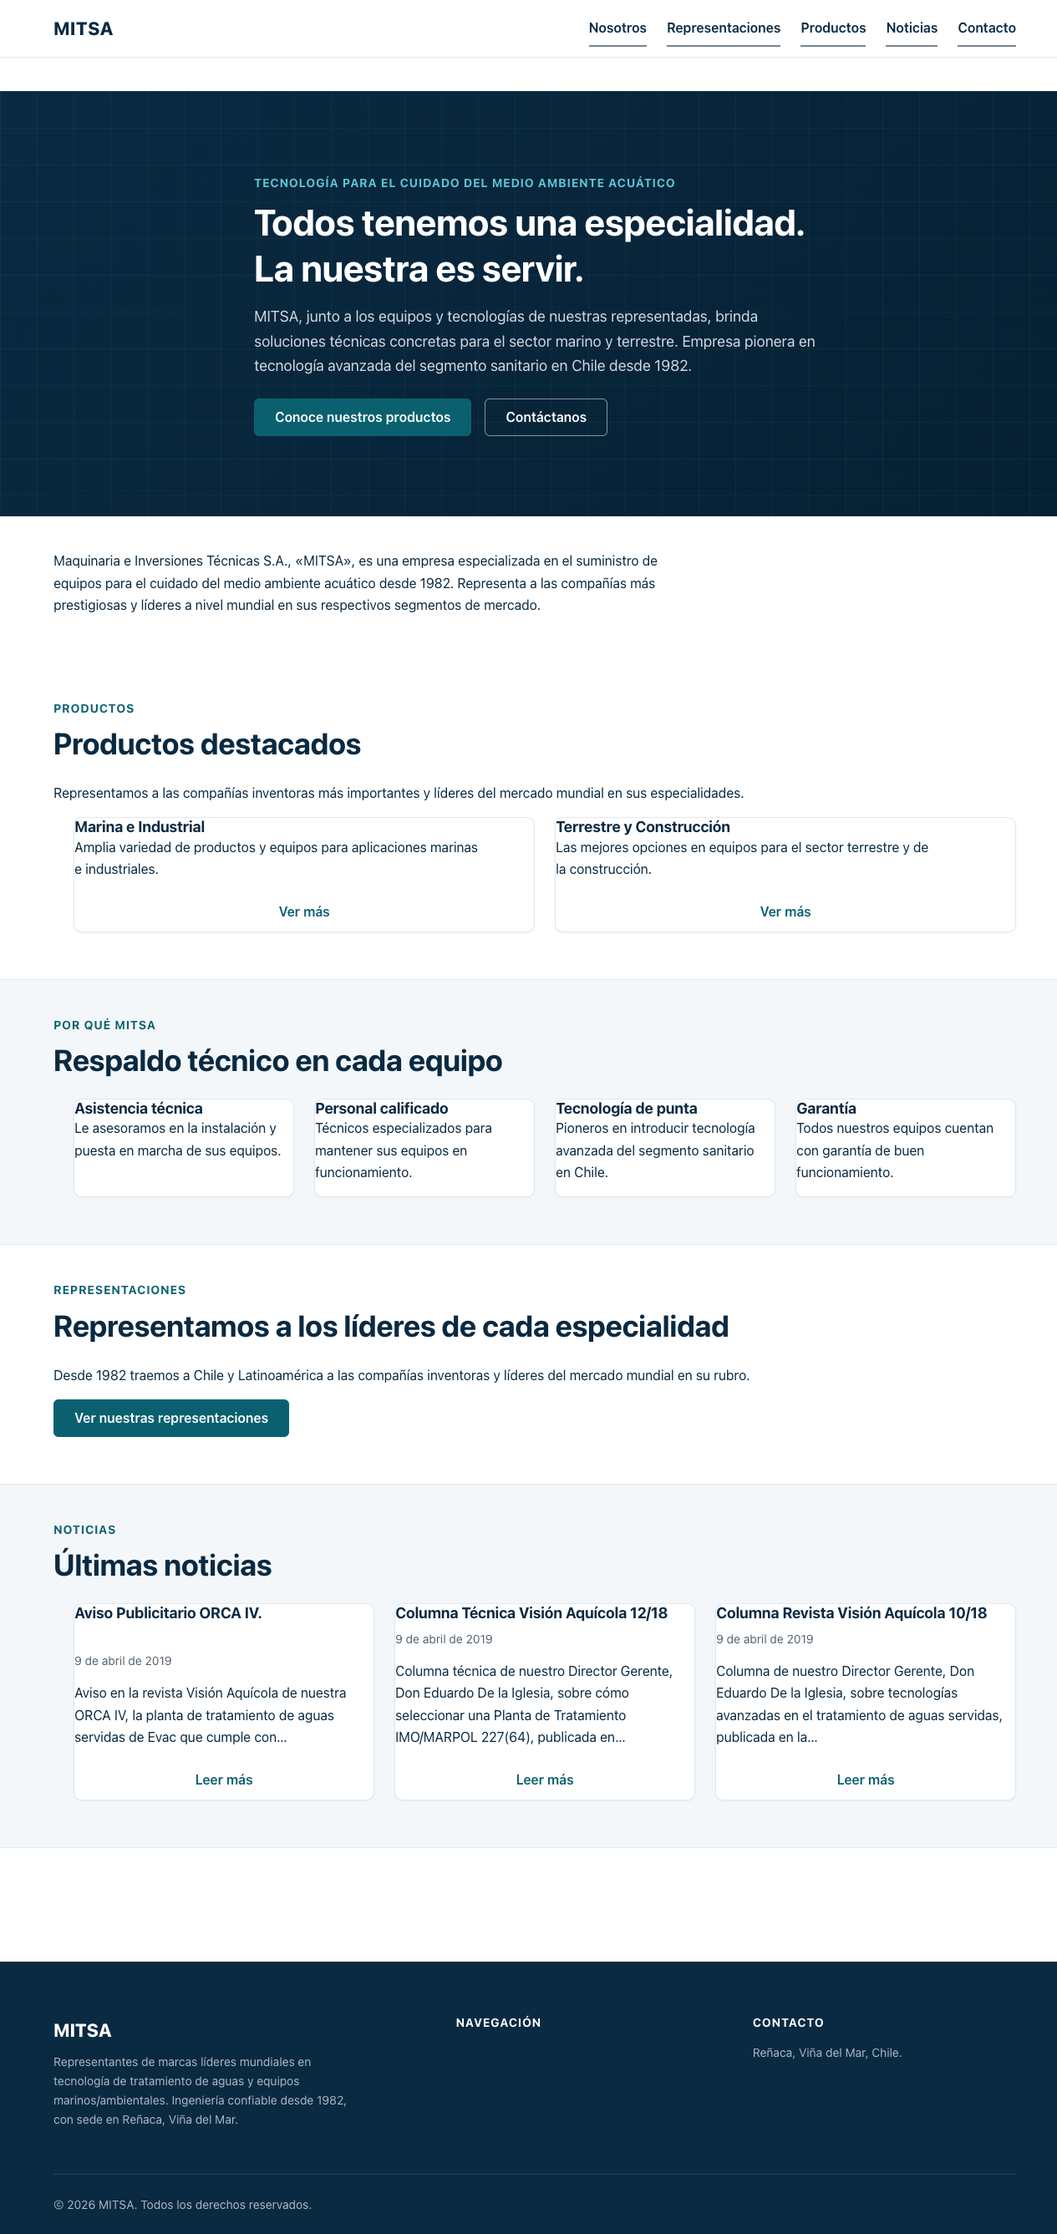
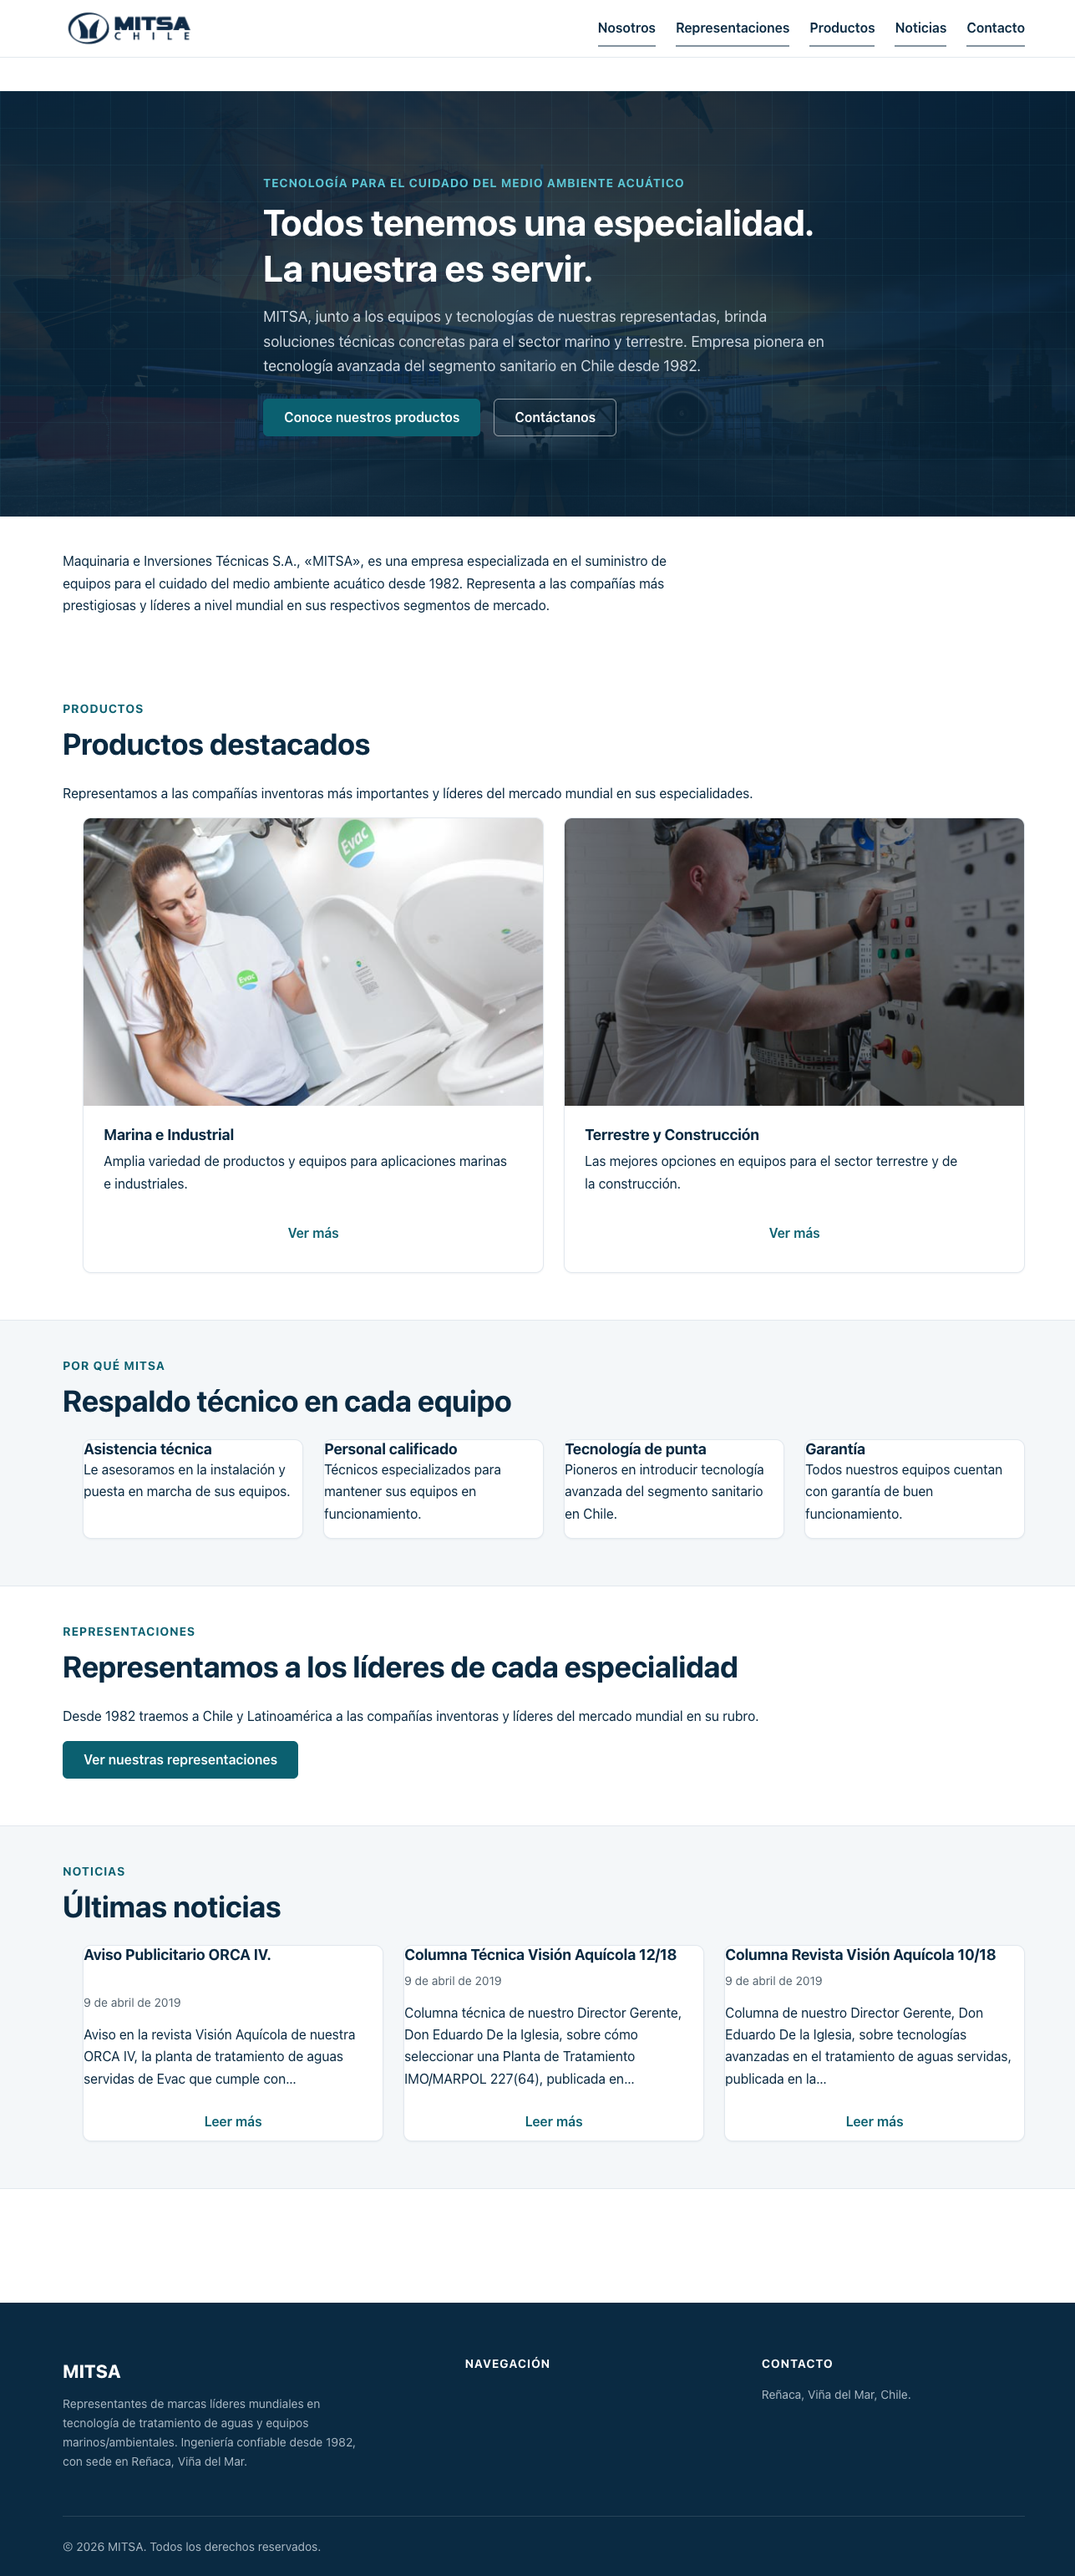
feat(replica): identidad visual e imágenes del sitio actual
Logo MITSA CHILE en el header (recoloreado de blanco a navy para el header claro),
favicon con el isotipo, hero con foto de fondo (barco) + overlay, y fotos reales en
los destacados de producto (toilet Evac, panel técnico). 8 imágenes clave traídas
de la media library pública del sitio actual. Assets del logo/favicon respaldados
en docs/replica-tema-overrides/assets/ (config custom_logo/site_icon documentada).

diff --git a/docs/replica-tema-overrides/front-page.php b/docs/replica-tema-overrides/front-page.php
@@ -10,9 +10,19 @@
  */
 
 get_header();
+
+// Imagen de fondo del hero (réplica del slider del sitio actual).
+$mitsa_hero_src   = wp_get_attachment_image_url( 58, 'full' );
+$mitsa_hero_style = '';
+if ( $mitsa_hero_src ) {
+	$mitsa_hero_style = sprintf(
+		' style="background-image: linear-gradient(135deg, rgba(10,42,66,0.82) 0%%, rgba(6,32,51,0.90) 100%%), url(%s); background-size: cover; background-position: center;"',
+		esc_url( $mitsa_hero_src )
+	);
+}
 ?>
 
-<section class="mitsa-hero" aria-labelledby="mitsa-hero-title">
+<section class="mitsa-hero mitsa-hero--photo" aria-labelledby="mitsa-hero-title"<?php echo $mitsa_hero_style; // phpcs:ignore WordPress.Security.EscapeOutput.OutputNotEscaped ?>>
 	<div class="mitsa-container mitsa-hero__inner">
 		<span class="mitsa-kicker"><?php esc_html_e( 'Tecnología para el cuidado del medio ambiente acuático', 'mitsa' ); ?></span>
 		<h1 id="mitsa-hero-title"><?php esc_html_e( 'Todos tenemos una especialidad. La nuestra es servir.', 'mitsa' ); ?></h1>
@@ -52,14 +62,24 @@ get_header();
 		<p><?php esc_html_e( 'Representamos a las compañías inventoras más importantes y líderes del mercado mundial en sus especialidades.', 'mitsa' ); ?></p>
 		<ul class="mitsa-grid mitsa-grid--2 mitsa-cards">
 			<li class="mitsa-card mitsa-card--producto">
-				<h3 class="mitsa-card__title"><a href="<?php echo esc_url( home_url( '/marina-e-industrial/' ) ); ?>"><?php esc_html_e( 'Marina e Industrial', 'mitsa' ); ?></a></h3>
-				<p class="mitsa-card__text"><?php esc_html_e( 'Amplia variedad de productos y equipos para aplicaciones marinas e industriales.', 'mitsa' ); ?></p>
-				<a class="mitsa-btn mitsa-btn--ghost" href="<?php echo esc_url( home_url( '/marina-e-industrial/' ) ); ?>"><?php esc_html_e( 'Ver más', 'mitsa' ); ?></a>
+				<a class="mitsa-card__media" href="<?php echo esc_url( home_url( '/marina-e-industrial/' ) ); ?>" tabindex="-1" aria-hidden="true">
+					<?php echo wp_get_attachment_image( 62, 'medium_large', false, array( 'alt' => __( 'Productos marinos e industriales', 'mitsa' ) ) ); ?>
+				</a>
+				<div class="mitsa-card__body">
+					<h3 class="mitsa-card__title"><a href="<?php echo esc_url( home_url( '/marina-e-industrial/' ) ); ?>"><?php esc_html_e( 'Marina e Industrial', 'mitsa' ); ?></a></h3>
+					<p class="mitsa-card__text"><?php esc_html_e( 'Amplia variedad de productos y equipos para aplicaciones marinas e industriales.', 'mitsa' ); ?></p>
+					<a class="mitsa-btn mitsa-btn--ghost" href="<?php echo esc_url( home_url( '/marina-e-industrial/' ) ); ?>"><?php esc_html_e( 'Ver más', 'mitsa' ); ?></a>
+				</div>
 			</li>
 			<li class="mitsa-card mitsa-card--producto">
-				<h3 class="mitsa-card__title"><a href="<?php echo esc_url( home_url( '/terrestre-y-construccion/' ) ); ?>"><?php esc_html_e( 'Terrestre y Construcción', 'mitsa' ); ?></a></h3>
-				<p class="mitsa-card__text"><?php esc_html_e( 'Las mejores opciones en equipos para el sector terrestre y de la construcción.', 'mitsa' ); ?></p>
-				<a class="mitsa-btn mitsa-btn--ghost" href="<?php echo esc_url( home_url( '/terrestre-y-construccion/' ) ); ?>"><?php esc_html_e( 'Ver más', 'mitsa' ); ?></a>
+				<a class="mitsa-card__media" href="<?php echo esc_url( home_url( '/terrestre-y-construccion/' ) ); ?>" tabindex="-1" aria-hidden="true">
+					<?php echo wp_get_attachment_image( 61, 'medium_large', false, array( 'alt' => __( 'Equipos para el sector terrestre y de la construcción', 'mitsa' ) ) ); ?>
+				</a>
+				<div class="mitsa-card__body">
+					<h3 class="mitsa-card__title"><a href="<?php echo esc_url( home_url( '/terrestre-y-construccion/' ) ); ?>"><?php esc_html_e( 'Terrestre y Construcción', 'mitsa' ); ?></a></h3>
+					<p class="mitsa-card__text"><?php esc_html_e( 'Las mejores opciones en equipos para el sector terrestre y de la construcción.', 'mitsa' ); ?></p>
+					<a class="mitsa-btn mitsa-btn--ghost" href="<?php echo esc_url( home_url( '/terrestre-y-construccion/' ) ); ?>"><?php esc_html_e( 'Ver más', 'mitsa' ); ?></a>
+				</div>
 			</li>
 		</ul>
 	</section>

diff --git a/docs/replica-tema-overrides/README.md b/docs/replica-tema-overrides/README.md
@@ -15,3 +15,16 @@ entorno local, reponer copiando estos sobre la copia del tema en wpactual.
 
 Pendiente: formalizar el tema réplica como tema versionado propio si la réplica
 avanza a producción.
+
+## Assets e identidad visual (config en BD, respaldados en assets/)
+
+El logo original de MITSA era blanco (para el header oscuro de LogisCargo). Se
+recoloreó a navy (#0f2b47) para el header claro del tema mitsa:
+- `assets/logo-mitsa-chile-navy.png` → importado y fijado como `custom_logo` (theme mod).
+- `assets/favicon-isotipo-512.png` → isotipo (elipse) sobre navy, fijado como `site_icon` (option).
+
+Para reponer en wpactual: `wp media import <asset> --path=wpactual --porcelain`,
+luego `wp theme mod set custom_logo <id>` / `wp option update site_icon <id>`.
+
+El hero de la portada usa una foto de fondo (attachment 58, mitza.jpg) con overlay
+navy; las cards de Productos destacados usan fotos reales (attachments 61/62).
